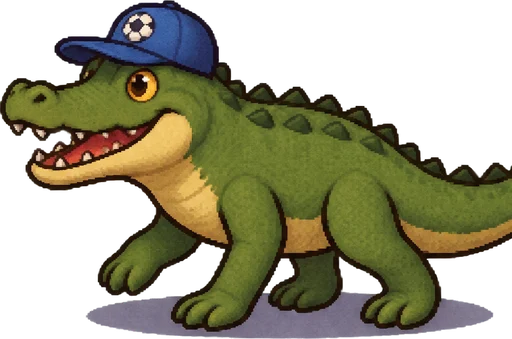
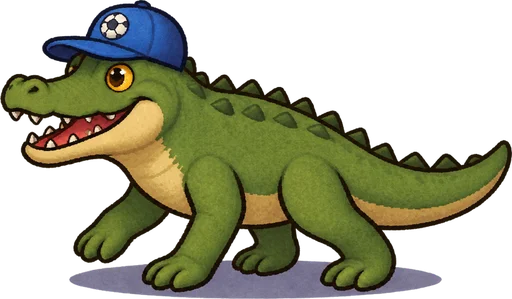
Lenda do Campinho v317: Tanuki, Touro, Jacaré e Morcego refeitos inteiros (rabo/asa cortados na arte parada)

diff --git a/frontend/public/lenda-do-campinho/index.html b/frontend/public/lenda-do-campinho/index.html
@@ -11,8 +11,8 @@
 <link rel="preconnect" href="https://fonts.googleapis.com">
 <link rel="preconnect" href="https://fonts.gstatic.com" crossorigin>
 <link href="https://fonts.googleapis.com/css2?family=Fredoka:wght@500;600;700&family=Nunito:wght@600;700;800&display=swap" rel="stylesheet">
-<link rel="stylesheet" href="css/style.css?v=316">
-<link rel="stylesheet" href="css/inicio.css?v=316">
+<link rel="stylesheet" href="css/style.css?v=317">
+<link rel="stylesheet" href="css/inicio.css?v=317">
 <link rel="icon" href="https://www.educacaogamer.com.br/favicon.png">
 <link rel="manifest" href="manifest.webmanifest">
 <link rel="apple-touch-icon" href="a/icone_192.png">
@@ -155,116 +155,116 @@
   </div>
 </div>
 
-<script src="js/confirma.js?v=316"></script>
-<script src="js/data.js?v=316"></script>
-<script src="js/arte.js?v=316"></script>
-<script src="js/assets.js?v=316"></script>
-<script src="js/world.js?v=316"></script>
-<script src="js/game.js?v=316"></script>
-<script src="js/roupas.js?v=316"></script>
-<script src="js/europa.js?v=316"></script>
-<script src="js/cidades.js?v=316"></script>
-<script src="js/santos_mapa.js?v=316"></script>
-<script src="js/espalha.js?v=316"></script>
-<script src="js/centrinho.js?v=316"></script>
-<script src="js/team.js?v=316"></script>
-<script src="js/copa.js?v=316"></script>
-<script src="js/carreira.js?v=316"></script>
-<script src="js/historia.js?v=316"></script>
-<script src="js/ui.js?v=316"></script>
-<script src="js/penalti.js?v=316"></script>
-<script src="js/bonecos_meta.js?v=316"></script>
-<script src="js/boneco.js?v=316"></script>
-<script src="js/clima.js?v=316"></script>
-<script src="js/itens.js?v=316"></script>
-<script src="js/layout.js?v=316"></script>
-<script src="js/backup.js?v=316"></script>
-<script src="js/minimapa.js?v=316"></script>
-<script src="js/audio.js?v=316"></script>
-<script src="js/jogadas.js?v=316"></script>
-<script src="js/arenas.js?v=316"></script>
-<script src="js/montarias.js?v=316"></script>
-<script src="js/armazem.js?v=316"></script>
-<script src="js/casas.js?v=316"></script>
-<script src="js/celular.js?v=316"></script>
-<script src="js/celular2.js?v=316"></script>
-<script src="js/beta.js?v=316"></script>
-<script src="js/portal.js?v=316"></script>
-<script src="js/nuvem.js?v=316"></script>
-<script src="js/contas.js?v=316"></script><script src="js/sessao_unica.js?v=316"></script>
-<script src="js/protege.js?v=316"></script>
-<script src="js/topo.js?v=316"></script>
-<script src="js/sair.js?v=316"></script>
-<script src="js/lances.js?v=316"></script>
-<script src="js/vocacoes.js?v=316"></script>
-<script src="js/tela.js?v=316"></script>
-<script src="js/agua.js?v=316"></script>
-<script src="js/vento.js?v=316"></script>
-<script src="js/wiki.js?v=316"></script>
-<script src="js/personagens.js?v=316"></script>
-<script src="js/teclas.js?v=316"></script>
-<script src="js/variedade.js?v=316"></script>
-<script src="js/bonecos_meta2.js?v=316"></script>
-<script src="js/bonecos_meta3.js?v=316"></script>
-<script src="js/bonecos_meta4.js?v=316"></script>
-<script src="js/corpos.js?v=316"></script>
-<script src="js/fx.js?v=316"></script>
-<script src="js/cacadas.js?v=316"></script>
-<script src="js/atlantida.js?v=316"></script>
-<script src="js/espaco.js?v=316"></script>
-<script src="js/vale.js?v=316"></script>
-<script src="js/treino.js?v=316"></script>
-<script src="js/cadastro.js?v=316"></script>
-<script src="js/montaria_arte.js?v=316"></script>
-<script src="js/luxo.js?v=316"></script>
-<script src="js/divulgar.js?v=316"></script>
-<script src="js/corrida.js?v=316"></script><script src="js/estadios.js?v=316"></script><script src="js/monumentos.js?v=316"></script><script src="js/ruas.js?v=316"></script><script src="js/ambiente.js?v=316"></script><script src="js/conquistas.js?v=316"></script><script src="js/rastreador.js?v=316"></script><script src="js/alertas.js?v=316"></script><script src="js/ondeachar.js?v=316"></script><script src="js/time_guia.js?v=316"></script><script src="js/jogadas_info.js?v=316"></script><script src="js/dribles_nivel.js?v=316"></script><script src="js/pocoes.js?v=316"></script><script src="js/analisador.js?v=316"></script><script src="js/tarefas.js?v=316"></script><script src="js/diaria.js?v=316"></script><script src="js/avisos.js?v=316"></script><script src="js/saida_trancada.js?v=316"></script><script src="js/cidade_arrumada.js?v=316"></script><script src="js/partida.js?v=316"></script><script src="js/centros_treino.js?v=316"></script><script src="js/grade.js?v=316"></script><script src="js/zona_segura.js?v=316"></script><script src="js/minha_classe.js?v=316"></script>
-<script src="js/app_windows.js?v=316"></script>
-<script src="js/inicio.js?v=316"></script>
-<script src="js/gravacao.js?v=316"></script>
-<script src="js/massagistas.js?v=316"></script>
-<script src="js/arquibancadas.js?v=316"></script>
-<script src="js/asas.js?v=316"></script>
-<script src="js/carreira_metas.js?v=316"></script>
-<script src="js/arquetipos.js?v=316"></script>
-<script src="js/magias_adv.js?v=316"></script>
-<script src="js/santos.js?v=316"></script>
-<script src="js/arcos.js?v=316"></script>
-<script src="js/luz.js?v=316"></script>
-<script src="js/clube_mais.js?v=316"></script>
-<script src="js/compacto.js?v=316"></script>
-<script src="js/ajustes_ui.js?v=316"></script>
-<script src="js/volta_v258.js?v=316"></script>
-<script src="js/cidades_vivas.js?v=316"></script>
-<script src="js/cidades_novas.js?v=316"></script>
-<script src="js/dungeons_novas.js?v=316"></script>
-<script src="js/vila_nova.js?v=316"></script>
-<script src="js/brasil_vivo.js?v=316"></script>
-<script src="js/armazem_forja.js?v=316"></script>
-<script src="js/tarefas_loja.js?v=316"></script>
-<script src="js/carreira_jogos.js?v=316"></script>
-<script src="js/carreira_futebol.js?v=316"></script>
-<script src="js/lendas.js?v=316"></script>
-<script src="js/mapa_marca.js?v=316"></script>
-<script src="js/missoes_colecao.js?v=316"></script>
-<script src="js/espaco_novo.js?v=316"></script>
-<script src="js/pontes.js?v=316"></script>
-<script src="js/futebol_dicas.js?v=316"></script>
-<script src="js/visual_itens.js?v=316"></script>
-<script src="js/balanco_xp.js?v=316"></script>
-<script src="js/santos_jogadores.js?v=316"></script>
-<script src="js/pescoco_arte.js?v=316"></script>
-<script src="js/fps.js?v=316"></script>
-<script src="js/adornos.js?v=316"></script>
-<script src="js/desempenho.js?v=316"></script>
-<script src="js/roupas_tecidos.js?v=316"></script>
-<script src="js/chapeus_arte.js?v=316"></script>
-<script src="js/cacas_calmas.js?v=316"></script>
-<script src="js/viagens_equip.js?v=316"></script>
-<script src="js/bichos_vivos.js?v=316"></script>
-<script src="js/economia_ouro.js?v=316"></script>
-<script src="js/carreira_simula.js?v=316"></script>
-<script src="js/celular3.js?v=316"></script>
-<script src="js/graficos.js?v=316"></script>
+<script src="js/confirma.js?v=317"></script>
+<script src="js/data.js?v=317"></script>
+<script src="js/arte.js?v=317"></script>
+<script src="js/assets.js?v=317"></script>
+<script src="js/world.js?v=317"></script>
+<script src="js/game.js?v=317"></script>
+<script src="js/roupas.js?v=317"></script>
+<script src="js/europa.js?v=317"></script>
+<script src="js/cidades.js?v=317"></script>
+<script src="js/santos_mapa.js?v=317"></script>
+<script src="js/espalha.js?v=317"></script>
+<script src="js/centrinho.js?v=317"></script>
+<script src="js/team.js?v=317"></script>
+<script src="js/copa.js?v=317"></script>
+<script src="js/carreira.js?v=317"></script>
+<script src="js/historia.js?v=317"></script>
+<script src="js/ui.js?v=317"></script>
+<script src="js/penalti.js?v=317"></script>
+<script src="js/bonecos_meta.js?v=317"></script>
+<script src="js/boneco.js?v=317"></script>
+<script src="js/clima.js?v=317"></script>
+<script src="js/itens.js?v=317"></script>
+<script src="js/layout.js?v=317"></script>
+<script src="js/backup.js?v=317"></script>
+<script src="js/minimapa.js?v=317"></script>
+<script src="js/audio.js?v=317"></script>
+<script src="js/jogadas.js?v=317"></script>
+<script src="js/arenas.js?v=317"></script>
+<script src="js/montarias.js?v=317"></script>
+<script src="js/armazem.js?v=317"></script>
+<script src="js/casas.js?v=317"></script>
+<script src="js/celular.js?v=317"></script>
+<script src="js/celular2.js?v=317"></script>
+<script src="js/beta.js?v=317"></script>
+<script src="js/portal.js?v=317"></script>
+<script src="js/nuvem.js?v=317"></script>
+<script src="js/contas.js?v=317"></script><script src="js/sessao_unica.js?v=317"></script>
+<script src="js/protege.js?v=317"></script>
+<script src="js/topo.js?v=317"></script>
+<script src="js/sair.js?v=317"></script>
+<script src="js/lances.js?v=317"></script>
+<script src="js/vocacoes.js?v=317"></script>
+<script src="js/tela.js?v=317"></script>
+<script src="js/agua.js?v=317"></script>
+<script src="js/vento.js?v=317"></script>
+<script src="js/wiki.js?v=317"></script>
+<script src="js/personagens.js?v=317"></script>
+<script src="js/teclas.js?v=317"></script>
+<script src="js/variedade.js?v=317"></script>
+<script src="js/bonecos_meta2.js?v=317"></script>
+<script src="js/bonecos_meta3.js?v=317"></script>
+<script src="js/bonecos_meta4.js?v=317"></script>
+<script src="js/corpos.js?v=317"></script>
+<script src="js/fx.js?v=317"></script>
+<script src="js/cacadas.js?v=317"></script>
+<script src="js/atlantida.js?v=317"></script>
+<script src="js/espaco.js?v=317"></script>
+<script src="js/vale.js?v=317"></script>
+<script src="js/treino.js?v=317"></script>
+<script src="js/cadastro.js?v=317"></script>
+<script src="js/montaria_arte.js?v=317"></script>
+<script src="js/luxo.js?v=317"></script>
+<script src="js/divulgar.js?v=317"></script>
+<script src="js/corrida.js?v=317"></script><script src="js/estadios.js?v=317"></script><script src="js/monumentos.js?v=317"></script><script src="js/ruas.js?v=317"></script><script src="js/ambiente.js?v=317"></script><script src="js/conquistas.js?v=317"></script><script src="js/rastreador.js?v=317"></script><script src="js/alertas.js?v=317"></script><script src="js/ondeachar.js?v=317"></script><script src="js/time_guia.js?v=317"></script><script src="js/jogadas_info.js?v=317"></script><script src="js/dribles_nivel.js?v=317"></script><script src="js/pocoes.js?v=317"></script><script src="js/analisador.js?v=317"></script><script src="js/tarefas.js?v=317"></script><script src="js/diaria.js?v=317"></script><script src="js/avisos.js?v=317"></script><script src="js/saida_trancada.js?v=317"></script><script src="js/cidade_arrumada.js?v=317"></script><script src="js/partida.js?v=317"></script><script src="js/centros_treino.js?v=317"></script><script src="js/grade.js?v=317"></script><script src="js/zona_segura.js?v=317"></script><script src="js/minha_classe.js?v=317"></script>
+<script src="js/app_windows.js?v=317"></script>
+<script src="js/inicio.js?v=317"></script>
+<script src="js/gravacao.js?v=317"></script>
+<script src="js/massagistas.js?v=317"></script>
+<script src="js/arquibancadas.js?v=317"></script>
+<script src="js/asas.js?v=317"></script>
+<script src="js/carreira_metas.js?v=317"></script>
+<script src="js/arquetipos.js?v=317"></script>
+<script src="js/magias_adv.js?v=317"></script>
+<script src="js/santos.js?v=317"></script>
+<script src="js/arcos.js?v=317"></script>
+<script src="js/luz.js?v=317"></script>
+<script src="js/clube_mais.js?v=317"></script>
+<script src="js/compacto.js?v=317"></script>
+<script src="js/ajustes_ui.js?v=317"></script>
+<script src="js/volta_v258.js?v=317"></script>
+<script src="js/cidades_vivas.js?v=317"></script>
+<script src="js/cidades_novas.js?v=317"></script>
+<script src="js/dungeons_novas.js?v=317"></script>
+<script src="js/vila_nova.js?v=317"></script>
+<script src="js/brasil_vivo.js?v=317"></script>
+<script src="js/armazem_forja.js?v=317"></script>
+<script src="js/tarefas_loja.js?v=317"></script>
+<script src="js/carreira_jogos.js?v=317"></script>
+<script src="js/carreira_futebol.js?v=317"></script>
+<script src="js/lendas.js?v=317"></script>
+<script src="js/mapa_marca.js?v=317"></script>
+<script src="js/missoes_colecao.js?v=317"></script>
+<script src="js/espaco_novo.js?v=317"></script>
+<script src="js/pontes.js?v=317"></script>
+<script src="js/futebol_dicas.js?v=317"></script>
+<script src="js/visual_itens.js?v=317"></script>
+<script src="js/balanco_xp.js?v=317"></script>
+<script src="js/santos_jogadores.js?v=317"></script>
+<script src="js/pescoco_arte.js?v=317"></script>
+<script src="js/fps.js?v=317"></script>
+<script src="js/adornos.js?v=317"></script>
+<script src="js/desempenho.js?v=317"></script>
+<script src="js/roupas_tecidos.js?v=317"></script>
+<script src="js/chapeus_arte.js?v=317"></script>
+<script src="js/cacas_calmas.js?v=317"></script>
+<script src="js/viagens_equip.js?v=317"></script>
+<script src="js/bichos_vivos.js?v=317"></script>
+<script src="js/economia_ouro.js?v=317"></script>
+<script src="js/carreira_simula.js?v=317"></script>
+<script src="js/celular3.js?v=317"></script>
+<script src="js/graficos.js?v=317"></script>
 </body>
 </html>

diff --git a/frontend/public/lenda-do-campinho/js/bichos_vivos.js b/frontend/public/lenda-do-campinho/js/bichos_vivos.js
@@ -12,6 +12,8 @@
 {
   // v313: pedaços soltos de arte vizinha apagados (o dono viu um pedaço sobrando do lado da Aranha Goleira)
   if (typeof ASSET_VER !== 'undefined') for (const n of ['bicho_aranha', 'bicho_dragao', 'bicho_escorpiao', 'bicho_gargula', 'bicho_polvo', 'bicho_rato2', 'et_cristal', 'pombo2']) ASSET_VER[n] = 313;
+  // v317: a arte parada do Tanuki, do Touro e do Jacaré (rabo) e do Morcego (asa) vinha cortada na borda: refeitas inteiras
+  if (typeof ASSET_VER !== 'undefined') for (const n of ['bicho_tanuki', 'bicho_touro', 'bicho_jacare', 'bicho_morcego']) ASSET_VER[n] = 317;
   const ARRASTA = new Set(['bicho_mumia']); // brigando parado: passos no lugar
   const _quadroVivo = quadroBicho;
   quadroBicho = function (e, nome, look) {
